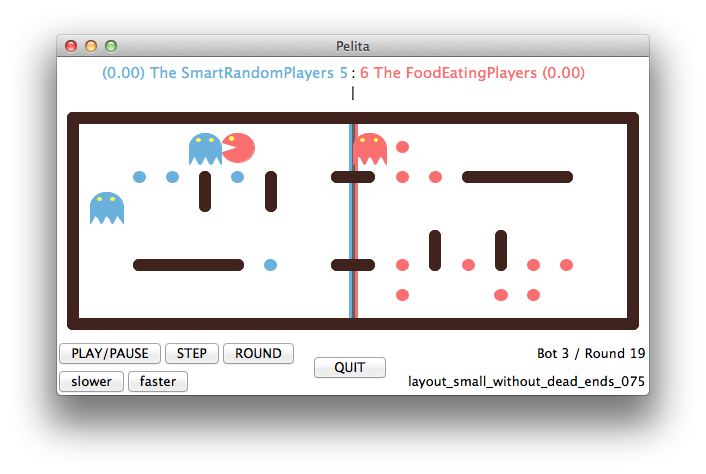
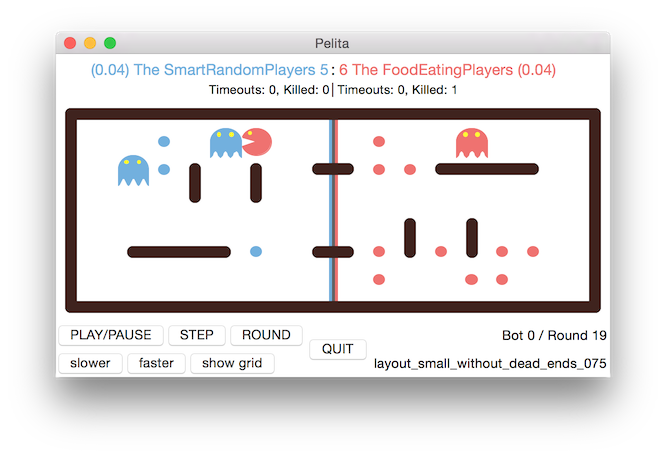
DOC/ENH: Add 2x image for the front page.

diff --git a/doc/source/index.rst b/doc/source/index.rst
@@ -8,7 +8,8 @@ Pelita
 
       .. container:: col-md-6
 
-         .. image:: images/small-game.png
+         .. image:: images/small-game@2x.png
+            :scale: 50%
             :alt: Screenshot.
             :class: img-responsive
 
@@ -79,4 +80,3 @@ Indices and tables
 * :ref:`genindex`
 * :ref:`modindex`
 * :ref:`search`
-
